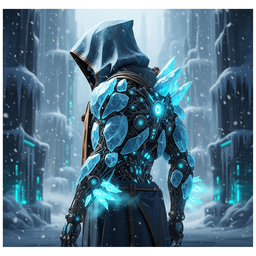
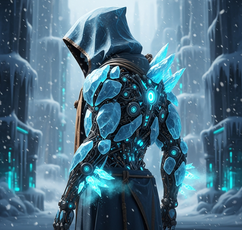
Update solo game logic and add new character assets for redline upgrade
Replit-Commit-Author: Agent

diff --git a/artifacts/api-server/src/lib/solo-games.ts b/artifacts/api-server/src/lib/solo-games.ts
@@ -38,19 +38,40 @@ function snapshot(gameId: string, version: number, state: SoloGameState, newlyUn
   return { gameId, version, match: state.match, newlyUnlocked };
 }
 
+function accountDisplayName(user?: { displayName?: string | null; firstName?: string | null; lastName?: string | null }, fallback = "You"): string {
+  return user?.displayName?.trim()
+    || [user?.firstName, user?.lastName].filter(Boolean).join(" ").trim()
+    || fallback;
+}
+
+function withPlayerDisplayName(state: SoloGameState, displayName: string): SoloGameState {
+  return {
+    ...state,
+    match: {
+      ...state.match,
+      players: state.match.players.map((player, index) => index === 0 ? { ...player, displayName } : player),
+    },
+  };
+}
+
 export async function getActiveSoloGame(userId: string): Promise<SoloGameSnapshot | null> {
   const [game] = await db.select().from(soloGamesTable)
     .where(and(eq(soloGamesTable.userId, userId), eq(soloGamesTable.status, "active")))
     .orderBy(desc(soloGamesTable.updatedAt))
     .limit(1);
   if (!game) return null;
-  const state = game.state as SoloGameState;
+  const [user] = await db.select({
+    displayName: usersTable.displayName,
+    firstName: usersTable.firstName,
+    lastName: usersTable.lastName,
+  }).from(usersTable).where(eq(usersTable.id, userId)).limit(1);
+  const state = withPlayerDisplayName(game.state as SoloGameState, accountDisplayName(user));
   return snapshot(game.id, game.version, state);
 }
 
 export async function startSoloGame(userId: string, boardId: string, characterId: string, displayName = "You"): Promise<SoloGameResult> {
   return db.transaction(async (tx): Promise<SoloGameResult> => {
-    const [user] = await tx.select({ id: usersTable.id, firstName: usersTable.firstName, lastName: usersTable.lastName })
+    const [user] = await tx.select({ id: usersTable.id, displayName: usersTable.displayName, firstName: usersTable.firstName, lastName: usersTable.lastName })
       .from(usersTable).where(eq(usersTable.id, userId)).for("update").limit(1);
     if (!user) return { kind: "not_found" };
     const board = findBoardDefinition(boardId);
@@ -58,7 +79,7 @@ export async function startSoloGame(userId: string, boardId: string, characterId
       return { kind: "invalid", message: "Choose an available board and a valid character." };
     }
 
-    const name = [user.firstName, user.lastName].filter(Boolean).join(" ").trim() || displayName;
+    const name = accountDisplayName(user, displayName);
     let match: Match;
     try {
       match = createMatch(characterId, board.id, "SINGLE_PLAYER");
@@ -100,7 +121,12 @@ export async function submitSoloGameAction(
     if (!game) return { kind: "not_found" };
     if (game.status !== "active") return { kind: "conflict", message: "This solo game is no longer active." };
     if (game.version !== expectedVersion) return { kind: "conflict", message: "The game state changed. Refresh and try again." };
-    const current = game.state as SoloGameState;
+    const [user] = await tx.select({
+      displayName: usersTable.displayName,
+      firstName: usersTable.firstName,
+      lastName: usersTable.lastName,
+    }).from(usersTable).where(eq(usersTable.id, userId)).limit(1);
+    const current = withPlayerDisplayName(game.state as SoloGameState, accountDisplayName(user));
     const result = applySoloPlayerAction(current.match, action as ClientAction);
     if (!result) return { kind: "conflict", message: "That action is not allowed right now." };
     const nextState: SoloGameState = {

diff --git a/artifacts/api-server/src/lib/cosmetics.ts b/artifacts/api-server/src/lib/cosmetics.ts
@@ -27,6 +27,7 @@ const epicNames = ["prime", "apex", "sentinel", "hewn knight", "damning duchess"
 const legendaryNames = ["final evolution", "myth", "immortal", "ultimate", "chosen", "perfect"];
 const rarityOverridesById: Partial<Record<string, Rarity>> = {
   "skin-alpha-alphimus-png": "EPIC",
+  "skin-click2-png": "RARE",
   "skin-dash-board-burst-png": "RARE",
   "skin-anointed-clean-cut-png": "EPIC",
   "skin-frost-corporal-whiteout-png": "EPIC",
@@ -52,7 +53,7 @@ const rarityOverridesById: Partial<Record<string, Rarity>> = {
   "skin-hotwired-pyra-png": "RARE",
   "skin-hotwired-pyra2-png": "RARE",
   "skin-rind-sewer-sharpshooter-png": "EPIC",
-  "skin-click-sir-whiskers-wrong-png": "EPIC",
+  "skin-click-sir-whiskers-wrong-png": "LEGENDARY",
   "skin-lowflame-the-bounty-can-wait-png": "EPIC",
   "skin-pain-the-walking-wound-png": "LEGENDARY",
   "skin-guardian-unmoved-marshal-png": "RARE",
@@ -94,7 +95,7 @@ function catalogFromAssets() {
     && !file.toLowerCase().startsWith("redline_auction_"));
   const skins = readdirSync(skinsDir).filter((file) => {
     const match = file.match(/^([a-z]+)_(.+)\.png$/i);
-    return Boolean(match && prefixCharacter[match[1].toLowerCase()]);
+    return file.toLowerCase() === "click2.png" || Boolean(match && prefixCharacter[match[1].toLowerCase()]);
   });
   return [
     ...logos.map((file) => {
@@ -104,11 +105,13 @@ function catalogFromAssets() {
       return { id, name, category: "LOGO", rarity, price: freeCosmeticIds.has(id) ? 0 : rarityPrice[rarity], assetPath: `Icons/${file}`, characterId: null, available: 1, isDefault: 0 };
     }),
     ...skins.map((file) => {
+      const isClickClickBase = file.toLowerCase() === "click2.png";
       const [prefix, ...title] = file.replace(/\.png$/i, "").split("_");
-      const name = title.join("_").replace(/([a-z])(\d+)$/i, "$1 ($2)");
+      const name = isClickClickBase ? "Click Click" : title.join("_").replace(/([a-z])(\d+)$/i, "$1 ($2)");
       const id = `skin-${slug(file)}`;
       const rarity = rarityFor(name, "DRIVER_SKIN", id);
-      return { id, name: displayName(name), category: "DRIVER_SKIN", rarity, price: freeCosmeticIds.has(id) ? 0 : rarityPrice[rarity], assetPath: `Skins/${file}`, characterId: prefixCharacter[prefix.toLowerCase()], available: 1, isDefault: 0 };
+      const characterId = isClickClickBase ? prefixCharacter.click : prefixCharacter[prefix.toLowerCase()];
+      return { id, name: displayName(name), category: "DRIVER_SKIN", rarity, price: freeCosmeticIds.has(id) ? 0 : rarityPrice[rarity], assetPath: `Skins/${file}`, characterId, available: 1, isDefault: 0 };
     }),
   ];
 }

diff --git a/artifacts/redline-upgrade/src/App.tsx b/artifacts/redline-upgrade/src/App.tsx
@@ -374,6 +374,11 @@ function Characters() {
     setSelectedId(pick.id);
   };
   const selectedImagePath = equippedSkinPaths[selected.id] ?? getCharacterImagePath(selected.id, selectedBoardId);
+  const rosterSubtitle = isBioBoard
+    ? 'Choose your player for Bio Upgrade. Your career and salary are assigned at the start of each game.'
+    : isHauntedBoard
+      ? 'Choose a Haunted Upgrade identity. Your selection is saved now; the board and its rules are still in development.'
+      : null;
 
   return (
     <AppShell>
@@ -383,7 +388,7 @@ function Characters() {
           {isBioBoard && <AgeRestrictionBadge />}
           <div className="roster-heading-row">
             <h1 className="display roster-title">Choose<br /><span className="title-outline">your player</span></h1>
-            <p className="roster-subtitle">{isBioBoard ? 'Choose your player for Bio Upgrade. Your career and salary are assigned at the start of each game.' : isHauntedBoard ? 'Choose a Haunted Upgrade identity. Your selection is saved now; the board and its rules are still in development.' : 'Every run begins with an operating system. Select the identity that feels most like a warning.'}</p>
+            {rosterSubtitle && <p className="roster-subtitle">{rosterSubtitle}</p>}
           </div>
         </section>
         <section className="roster-layout">

diff --git a/artifacts/redline-upgrade/src/game/state.tsx b/artifacts/redline-upgrade/src/game/state.tsx
@@ -9,6 +9,7 @@ import {
   type MatchSnapshot,
   type SoloGameSnapshot,
 } from '@workspace/api-client-react';
+import { AUTH_USER_UPDATED_EVENT } from '@workspace/replit-auth-web';
 import { toClientAction } from './multiplayer';
 import type { Player } from './player';
 import { createPlayer } from './player';
@@ -157,6 +158,20 @@ export function GameProvider({
         // Starting a new game remains available; the server reports persistent-game errors on actions.
       });
     return () => { cancelled = true; };
+  }, [authLoading, accountId, setSoloGameSnapshot]);
+  useEffect(() => {
+    if (authLoading || !accountId) return;
+    let cancelled = false;
+    const refreshActiveGameName = () => {
+      void getActiveSoloGame()
+        .then(({ game }) => { if (!cancelled && game) setSoloGameSnapshot(game); })
+        .catch(() => {});
+    };
+    window.addEventListener(AUTH_USER_UPDATED_EVENT, refreshActiveGameName);
+    return () => {
+      cancelled = true;
+      window.removeEventListener(AUTH_USER_UPDATED_EVENT, refreshActiveGameName);
+    };
   }, [authLoading, accountId, setSoloGameSnapshot]);
   const achievementLookupRef = useRef<string | null>(null);
   useEffect(() => {

diff --git a/artifacts/redline-upgrade/src/components/app-shell.tsx b/artifacts/redline-upgrade/src/components/app-shell.tsx
@@ -52,23 +52,13 @@ function Header() {
 }
 
 function Footer() {
-  const [location] = useLocation();
-  if (location === '/' || location === '/profile' || location === '/shop') {
-    return (
-      <footer className="page-footer page-footer-home" aria-hidden="true">
-        <div className="home-footer-signal">
-          <span className="home-footer-rail" />
-          <span className="home-footer-orbit"><i /></span>
-          <span className="home-footer-mark" />
-        </div>
-      </footer>
-    );
-  }
-
   return (
-    <footer className="page-footer mono">
-      <span>REDLINE UPGRADE // LOCAL MATCH</span>
-      <span>21 IDENTITIES // 75 SPACES // 2 × D4</span>
+    <footer className="page-footer page-footer-home" aria-hidden="true">
+      <div className="home-footer-signal">
+        <span className="home-footer-rail" />
+        <span className="home-footer-orbit"><i /></span>
+        <span className="home-footer-mark" />
+      </div>
     </footer>
   );
 }

diff --git a/artifacts/redline-upgrade/src/game/characters.ts b/artifacts/redline-upgrade/src/game/characters.ts
@@ -40,7 +40,7 @@ const roster = [
 const imageFileById: Record<string, string> = {
   guardian_h: 'guardian_h.png',
   click_click: 'click_click.png',
-  frostbyte: 'frostbyte.png',
+  frostbyte: 'frostbyte-player-select.png',
   sadman: 'sadman.png',
   rainbow_dash: 'rainbow_dash.png',
   accuser: 'accuser.png',

diff --git a/.agents/memory/MEMORY.md b/.agents/memory/MEMORY.md
@@ -9,3 +9,4 @@
 - [Account progression records](account-progression-records.md) — award permanent progress only from authenticated, server-authoritative completed games; do not backfill older or abandoned runs.
 - [Secret achievement privacy](secret-achievement-privacy.md) — keep secret definitions and progress server-only until unlock; freeze collection eligibility by catalog version.
 - [Profile identity fields](profile-identity-fields.md) — app display name is editable; sign-in email remains provider-managed and read-only.
+- [Portrait matte cleanup](portrait-matte-cropping.md) — crop baked-in borders in the source image; wrapper scaling cannot reliably remove them.

diff --git a/.agents/memory/portrait-matte-cropping.md b/.agents/memory/portrait-matte-cropping.md
@@ -1,0 +1,10 @@
+---
+name: Portrait matte cleanup
+description: How to remove baked-in portrait margins without distorting roster thumbnails.
+---
+
+When a portrait has a baked-in border, crop the source image and reference a new asset path rather than scaling the rendered image. `object-fit: contain` can leave the image edge visible inside letterboxed slots.
+
+**Why:** roster slots are wider than square portraits, so uniform CSS scaling does not reliably crop the actual image edge.
+
+**How to apply:** inspect the asset pixels, crop only the unwanted matte, preserve the artwork composition, and use a new asset path so browsers do not reuse the old image.
